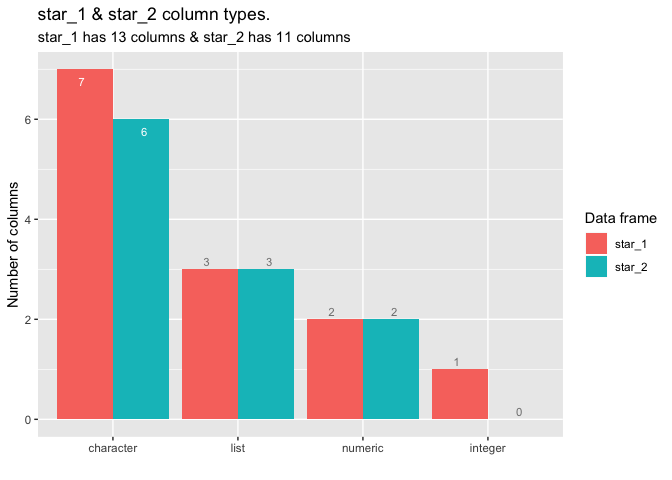
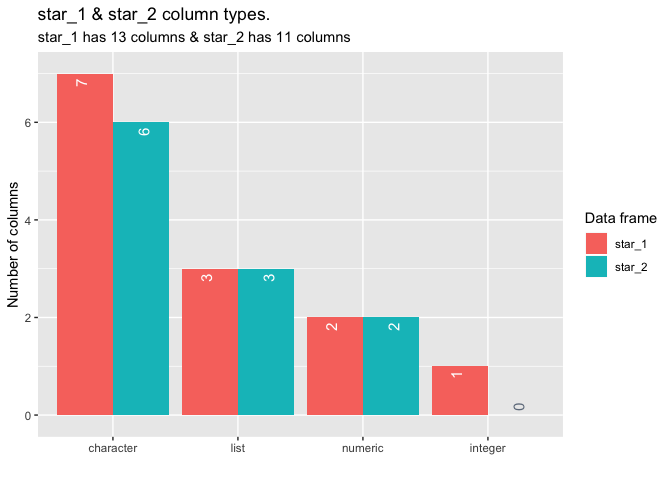
tidied annotation of barchart

diff --git a/README.md b/README.md
@@ -162,19 +162,19 @@ inspect_mem(star_1, star_2, show_plot = TRUE)
     ## # A tibble: 13 x 5
     ##    col_name   size_1    size_2    pcnt_1 pcnt_2
     ##    <chr>      <chr>     <chr>      <dbl>  <dbl>
-    ##  1 films      10.59 Kb  10.99 Kb  34.4    40.1 
-    ##  2 starships  4.25 Kb   3.86 Kb   13.8    14.1 
-    ##  3 name       3.57 Kb   <NA>      11.6    NA   
-    ##  4 vehicles   3.32 Kb   3.27 Kb   10.8    11.9 
-    ##  5 homeworld  2.08 Kb   2.16 Kb    6.75    7.89
-    ##  6 species    1.59 Kb   1.72 Kb    5.18    6.27
-    ##  7 skin_color 1.56 Kb   1.72 Kb    5.08    6.27
-    ##  8 eye_color  1.1 Kb    1.11 Kb    3.58    4.04
-    ##  9 hair_color 1.05 Kb   1.06 Kb    3.43    3.87
-    ## 10 gender     560 bytes 680 bytes  1.78    2.42
-    ## 11 mass       448 bytes 448 bytes  1.42    1.59
-    ## 12 birth_year 448 bytes 448 bytes  1.42    1.59
-    ## 13 height     248 bytes <NA>       0.787  NA
+    ##  1 films      11.59 Kb  11.71 Kb  35.1    41.0 
+    ##  2 starships  4.01 Kb   3.98 Kb   12.1    13.9 
+    ##  3 name       3.55 Kb   <NA>      10.8    NA   
+    ##  4 vehicles   3.47 Kb   3.31 Kb   10.5    11.6 
+    ##  5 homeworld  2.5 Kb    2.31 Kb    7.57    8.10
+    ##  6 species    2.24 Kb   1.8 Kb     6.78    6.32
+    ##  7 skin_color 2.02 Kb   1.8 Kb     6.10    6.29
+    ##  8 eye_color  1.11 Kb   1.16 Kb    3.36    4.08
+    ##  9 hair_color 848 bytes 1 Kb       2.51    3.50
+    ## 10 gender     624 bytes 616 bytes  1.84    2.11
+    ## 11 mass       448 bytes 448 bytes  1.32    1.53
+    ## 12 birth_year 448 bytes 448 bytes  1.32    1.53
+    ## 13 height     248 bytes <NA>       0.733  NA
 
 #### Missing values
 
@@ -226,14 +226,14 @@ inspect_na(star_1, star_2, show_plot = TRUE)
     ## # A tibble: 13 x 6
     ##    col_name   cnt_1 pcnt_1 cnt_2 pcnt_2 p_value
     ##    <chr>      <int>  <dbl> <int>  <dbl>   <dbl>
-    ##  1 birth_year    27     54    24     48   0.689
-    ##  2 mass          21     42    16     32   0.407
-    ##  3 homeworld      5     10     7     14   0.758
-    ##  4 species        4      8     2      4   0.674
-    ##  5 height         3      6    NA     NA  NA    
-    ##  6 hair_color     2      4     3      6   1.000
-    ##  7 gender         1      2     2      4   1    
-    ##  8 name           0      0    NA     NA  NA    
+    ##  1 birth_year    27     54    27     54   1    
+    ##  2 mass          12     24    17     34   0.378
+    ##  3 hair_color     4      8     2      4   0.674
+    ##  4 gender         2      4     2      4   1    
+    ##  5 homeworld      2      4     4      8   0.674
+    ##  6 species        1      2     3      6   0.610
+    ##  7 name           0      0    NA     NA  NA    
+    ##  8 height         0      0    NA     NA  NA    
     ##  9 skin_color     0      0     0      0  NA    
     ## 10 eye_color      0      0     0      0  NA    
     ## 11 films          0      0     0      0  NA    
@@ -302,11 +302,11 @@ inspect_cor(star_1, star_2, show_plot = TRUE)
 ![](man/figures/README-unnamed-chunk-13-1.png)<!-- -->
 
     ## # A tibble: 3 x 5
-    ##   col_1      col_2  corr_1 corr_2 p_value
-    ##   <chr>      <chr>   <dbl>  <dbl>   <dbl>
-    ## 1 mass       height  0.779 NA     NA     
-    ## 2 birth_year height  0.289 NA     NA     
-    ## 3 birth_year mass    0.145  0.469  0.0783
+    ##   col_1      col_2  corr_1 corr_2  p_value
+    ##   <chr>      <chr>   <dbl>  <dbl>    <dbl>
+    ## 1 birth_year mass   0.952   0.565  3.77e-9
+    ## 2 birth_year height 0.161  NA     NA      
+    ## 3 mass       height 0.0816 NA     NA
 
 Notes:
 
@@ -362,15 +362,15 @@ inspect_imb(star_1, star_2, show_plot = TRUE)
 ![](man/figures/README-unnamed-chunk-15-1.png)<!-- -->
 
     ## # A tibble: 7 x 7
-    ##   col_name   value            pcnt_1 cnt_1 pcnt_2 cnt_2 p_value
-    ##   <chr>      <chr>             <dbl> <int>  <dbl> <int>   <dbl>
-    ## 1 gender     male                76     11     64    13   0.815
-    ## 2 species    Human               50      1     42     1   1    
-    ## 3 hair_color none                34      1     40     1   1    
-    ## 4 eye_color  brown               28.     5     24     6   1.000
-    ## 5 skin_color fair                26      1     18     1   1    
-    ## 6 homeworld  Naboo               18      2     NA    NA  NA    
-    ## 7 name       Anakin Skywalker     2      1     NA    NA  NA
+    ##   col_name   value    pcnt_1 cnt_1 pcnt_2 cnt_2 p_value
+    ##   <chr>      <chr>     <dbl> <int>  <dbl> <int>   <dbl>
+    ## 1 gender     male        72     11     72    11   1    
+    ## 2 hair_color none        52      1     42     1   1    
+    ## 3 species    Human       30      1     42     1   1    
+    ## 4 eye_color  blue        24      8     24     5   0.552
+    ## 5 homeworld  Tatooine    14.     2     NA    NA  NA    
+    ## 6 skin_color fair        14.     1     26     2   1    
+    ## 7 name       Ackbar       2      1     NA    NA  NA
 
   - Smaller `p_value` indicates stronger evidence against the null
     hypothesis that the true frequency of the most common values is the
